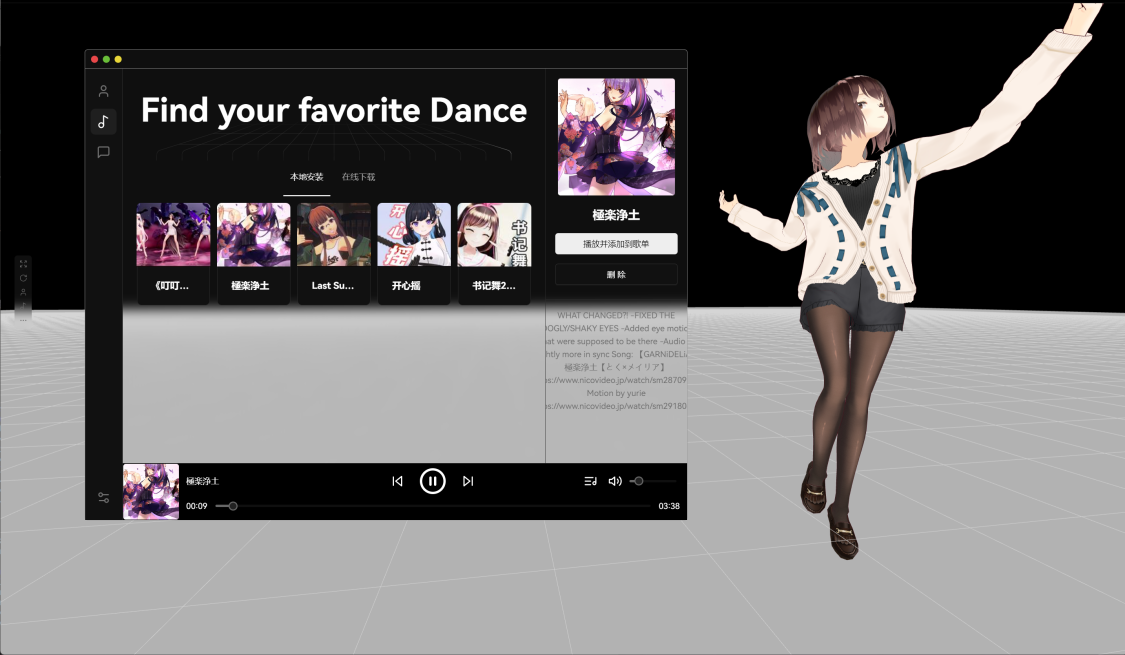
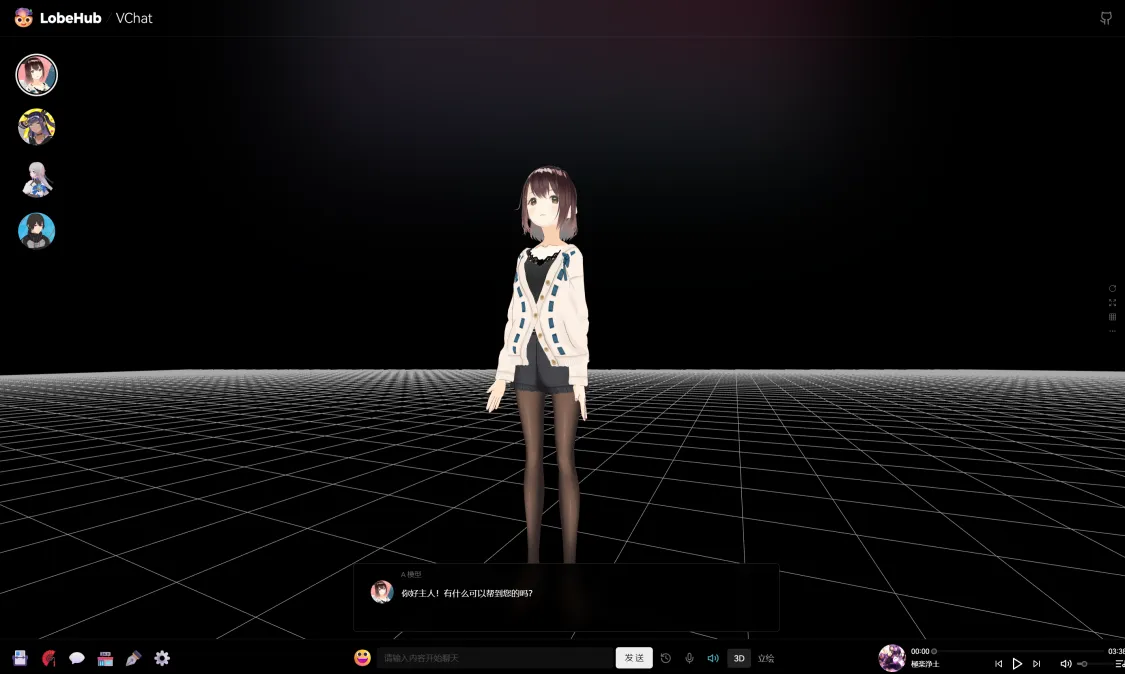
chore: update preview.png and README.md

diff --git a/README.md b/README.md
@@ -1,6 +1,6 @@
 <div align="center"><a name="readme-top"></a>
 
-<h1>VChat.Chat</h1>
+<h1>@LobeHub/VChat</h1>
 
 Make Virtual Idols Accessible To EveryOne!
 
@@ -22,7 +22,8 @@ Make Virtual Idols Accessible To EveryOne!
 
 - [x] 💨 **Vroid Model Preview**: Using the Vroid Editor, you can create and upload your own virtual idol to the website, play with them;
 - [x] 💎 **Exquisite UI Design**: With a carefully designed interface, it offers an elegant appearance and smooth interaction. It supports light and dark themes. PWA support provides a more native-like experience;
-- [x] 🗣 **MMD Dance Support**: With the support of mmd-parser, you can play vmd files with your favarite idol; Just Dance!
+- [x] 🎇 **MMD Dance Support**: With the support of mmd-parser, you can play vmd files with your favarite idol; Just Dance!
+- [x] 🗣 **Smooth Conversation Experience**: Fluid responses ensure a smooth conversation experience. It fully supports Markdown rendering, including code highlighting, LaTex formulas and more.
 
 <div align="right">
 
@@ -71,16 +72,16 @@ Contributions of all types are more than welcome, if you are interested in contr
 
 ### More Products
 
-- **[VChat chat agents](https://github.com/v-idol/vidol-chat-agents)** - This is the Agent Index of VChat Chat. VChat Chat accesses index.json from this repo to show user the list of available agents.
-- **[VChat agent sample](https://github.com/v-idol/vidol-agent-sample)** - This is the sample repo to define an AI agent in vidol.chat.
-- **[VChat chat dances](https://github.com/v-idol/vidol-chat-dances)** - This is the Dance Index of VChat Chat. VChat Chat accesses index.json from this repo to show user the play list of available dances.
-- **[VChat dance sample](https://github.com/v-idol/vidol-dance-sample)** - This is the sample repo to define a dance in vidol.chat.
+- **[VChat chat market](https://github.com/v-idol/vidol-chat-agents)** - This is the Market Index of VChat Chat. VChat accesses index.json from this repo to show user the list of available agents.
+- **[VChat agent sample](https://github.com/v-idol/vidol-agent-sample)** - This is the sample repo to define an AI agent in VChat.
+- **[VChat dance sample](https://github.com/v-idol/vidol-dance-sample)** - This is the sample repo to define a dance in VChat.
 
 ### Credits
 
 - **mmd-parser** - <https://github.com/takahirox/mmd-parser>
 - **three-vrm** - <https://github.com/pixiv/three-vrm>
 - **tts-vue** - <https://github.com/LokerL/tts-vue>
+- **lobe-chat** - <https://github.com/lobehub/lobe-chat>
 
 <div align="right">
 
